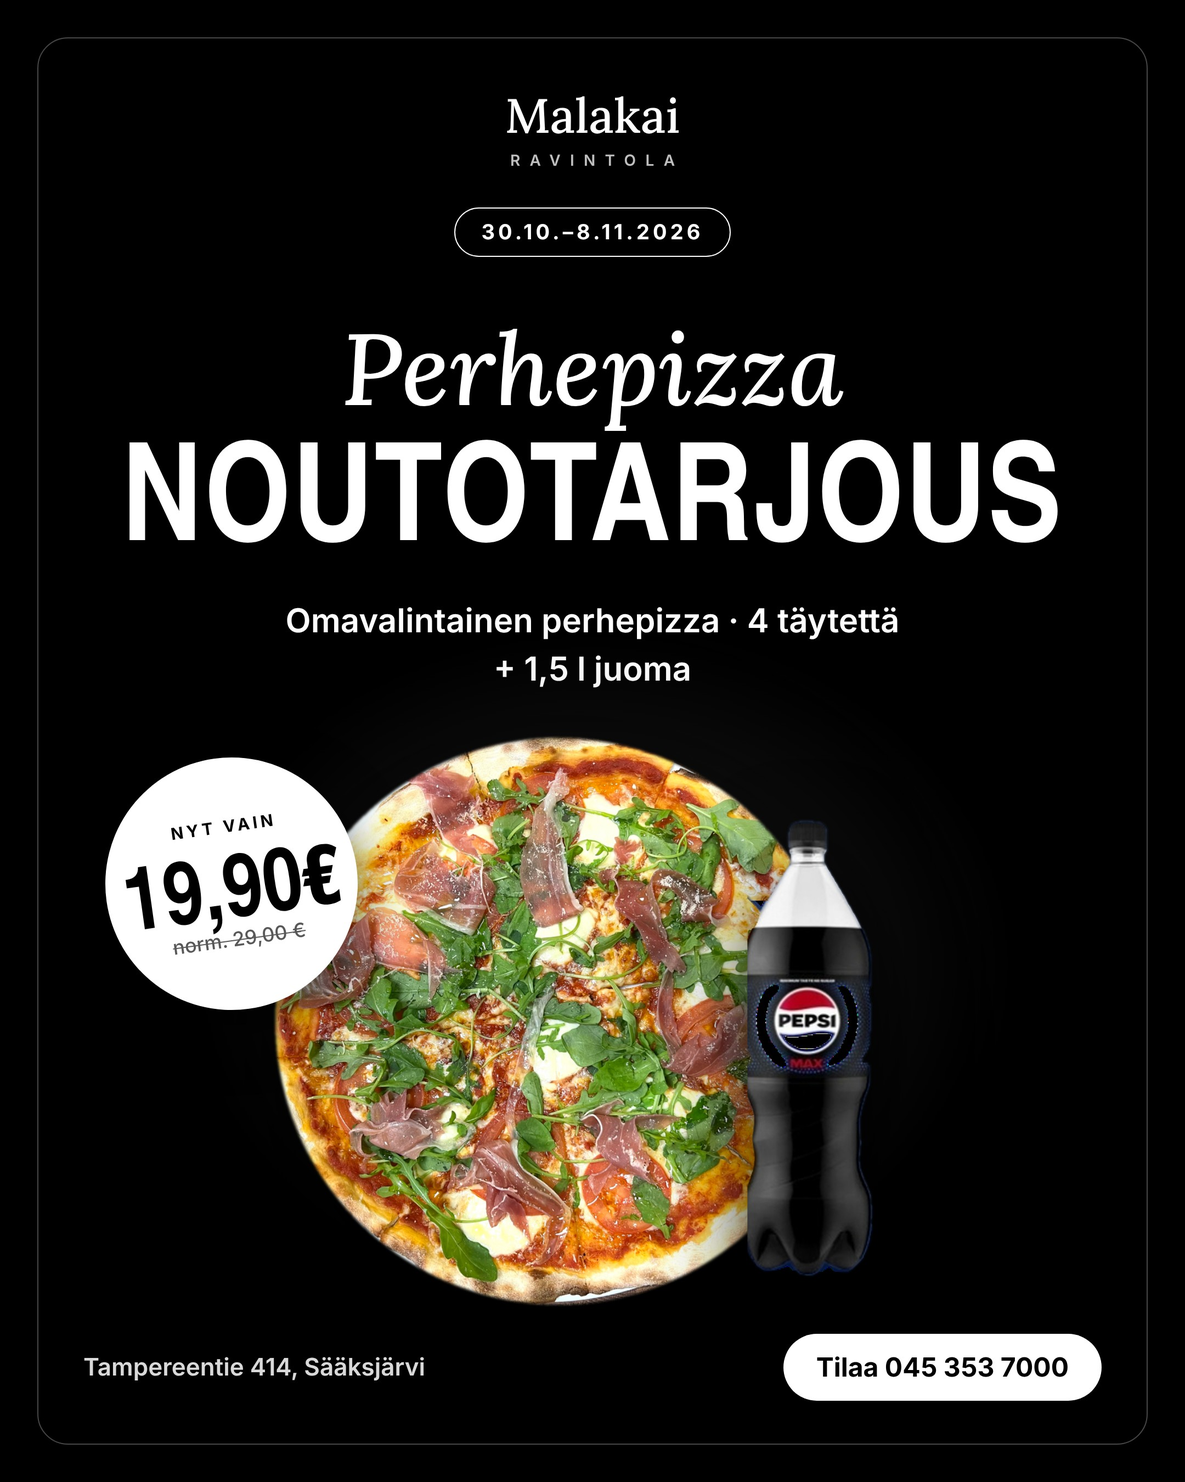
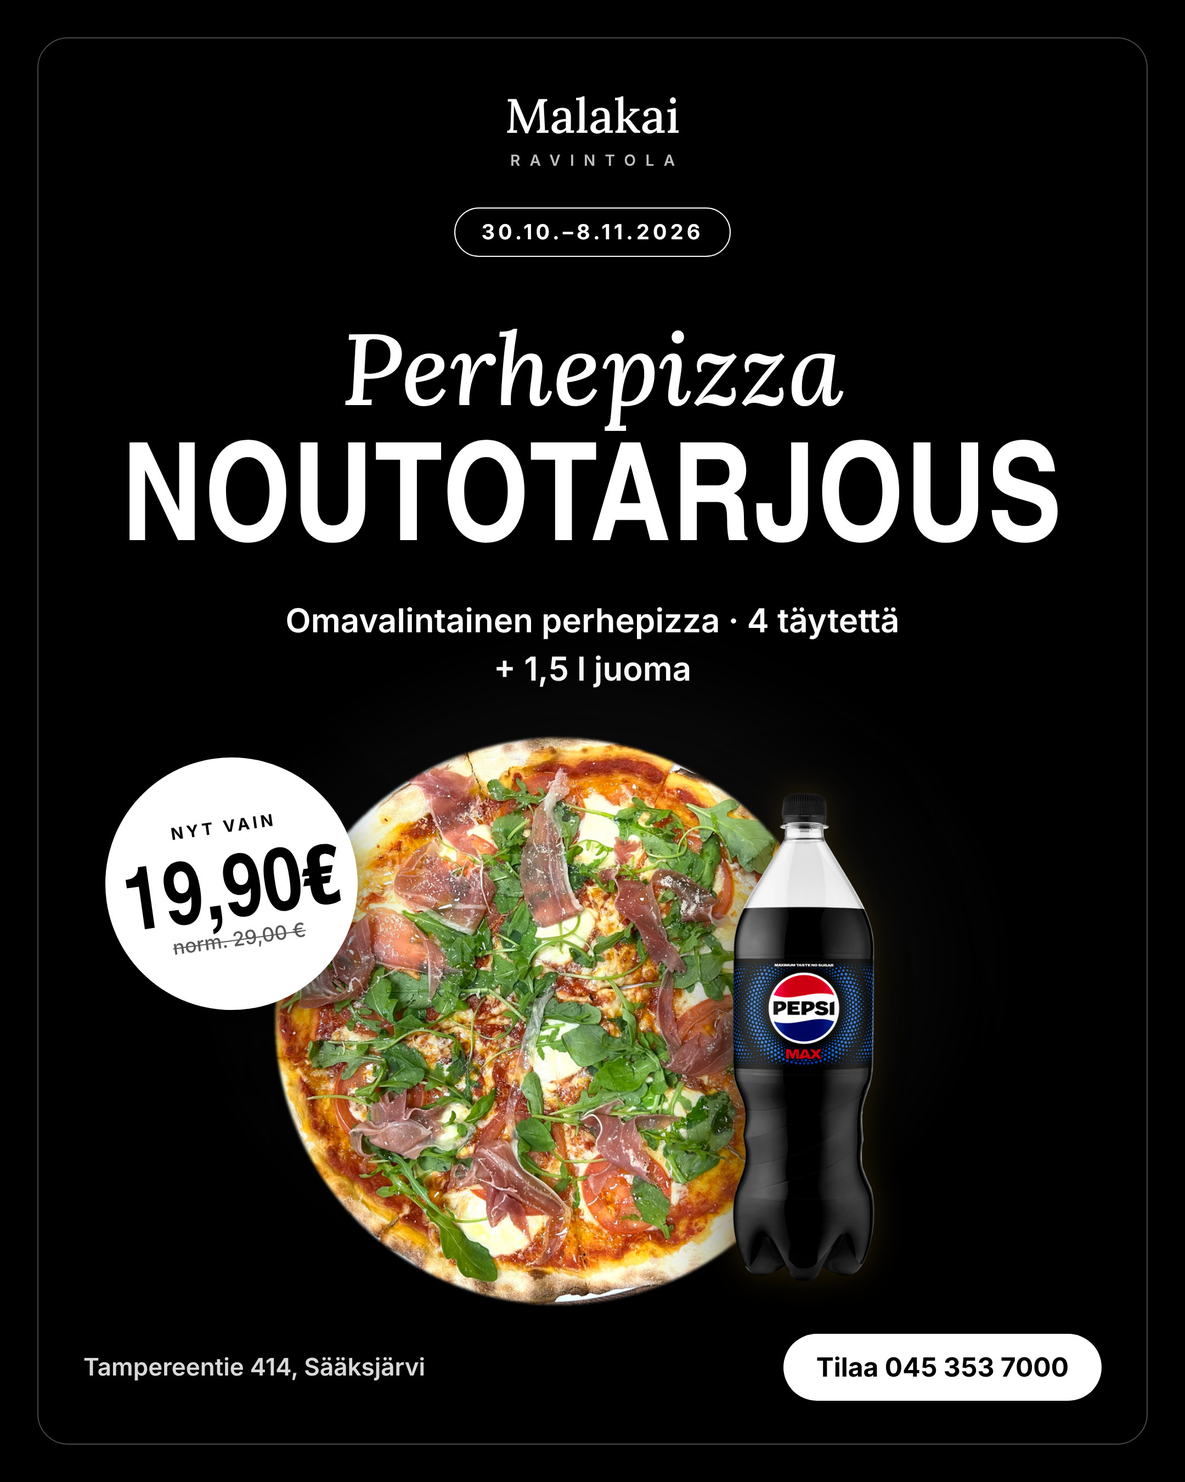
Perhepizza-tarjous: uusi Pepsi Max -kuva
Claude-Session: https://claude.ai/code/session_019QJ8uAZrjsHY5GBSvSU4sp

Changed region(s): [[0.5894, 0.5289, 0.7444, 0.8711], [0.7134, 0.7778, 0.7444, 0.84]]

diff --git a/index.html b/index.html
@@ -1,9 +1,9 @@
 <!DOCTYPE html>
-<html lang="fi"><head><meta charset="utf-8"><meta name="build" content="1793960340"><meta name="viewport" content="width=device-width, initial-scale=1, viewport-fit=cover">
+<html lang="fi"><head><meta charset="utf-8"><meta name="build" content="1793961114"><meta name="viewport" content="width=device-width, initial-scale=1, viewport-fit=cover">
 <title>Malakai Ravintola Lempäälä | Pizzabuffet, kebab, burgerit ja siivet</title><meta name="description" content="Malakai Ravintola, Tampereentie 414 Lempäälä. Pizzabuffet 13,70 € / 14,90 €, päivän pizza 9,90 €, kebabit, burgerit, Sticky Fingers ja Hot Wings. Varaa pöytä: 045 353 7000.">
 <meta property="og:title" content="Malakai Ravintola Lempäälä | Pizzabuffet, kebab, burgerit ja siivet"><meta property="og:description" content="Malakai Ravintola, Tampereentie 414 Lempäälä. Pizzabuffet 13,70 € / 14,90 €, päivän pizza 9,90 €, kebabit, burgerit, Sticky Fingers ja Hot Wings. Varaa pöytä: 045 353 7000."><meta property="og:image" content="media/kuvat/hero-levea.jpg?hq=1"><meta property="og:locale" content="fi_FI">
 <link href="https://fonts.googleapis.com/css2?family=Anton&family=Inter:wght@400;500;700&family=Playfair+Display:wght@500;600&display=swap" rel="stylesheet">
-<link rel="stylesheet" href="styles.css?v=1793960340"><link rel="stylesheet" href="home.css?v=1793960340">
+<link rel="stylesheet" href="styles.css?v=1793961114"><link rel="stylesheet" href="home.css?v=1793961114">
 <script type="application/ld+json">{"@context":"https://schema.org","@type":"Restaurant","name":"Malakai Ravintola","address":{"@type":"PostalAddress","streetAddress":"Tampereentie 414","postalCode":"33880","addressLocality":"Lempäälä","addressCountry":"FI"},"telephone":"+358453537000","email":"malakairavintola@gmail.com","url":"https://malakairavintola.fi","servesCuisine":["Pizza","Kebab","Burgerit"],"openingHours":["Mo-Th 10:30-20:00","Fr 10:30-21:00","Sa 11:00-21:00","Su 12:00-20:00"]}</script>
 </head>
 <body class="home">
@@ -219,5 +219,5 @@
 <div class="fcopy">© 2025 Malakai Ravintola · <a href="https://www.oivahymy.fi/api/raportti/227129" target="_blank" rel="noopener">Oiva-raportti (Oivallinen)</a> · <a href="tietosuoja.html">Tietosuojaseloste</a> · <a href="kayttoehdot.html">Käyttö- ja varausehdot</a></div>
 </div></footer>
 <div class="bar"><a class="btn" href="tel:+358453537000">Soita</a><a class="btn r" href="https://order.site/malakai-ravintola" target="_blank" rel="noopener">Tilaa</a><a class="btn y" href="#varaa">Varaa pöytä</a></div>
-<script src="data.js?v=1793960340"></script><script src="config.js?v=1793960340"></script><script src="site.js?v=1793960340"></script>
+<script src="data.js?v=1793961114"></script><script src="config.js?v=1793961114"></script><script src="site.js?v=1793961114"></script>
 </body></html>

diff --git a/lounas.html b/lounas.html
@@ -1,9 +1,9 @@
 <!DOCTYPE html>
-<html lang="fi"><head><meta charset="utf-8"><meta name="build" content="1793960340"><meta name="viewport" content="width=device-width, initial-scale=1, viewport-fit=cover">
+<html lang="fi"><head><meta charset="utf-8"><meta name="build" content="1793961114"><meta name="viewport" content="width=device-width, initial-scale=1, viewport-fit=cover">
 <title>Lounas Sääksjärvi | Malakai Ravintola Lempäälä</title><meta name="description" content="Pizzabuffet Lempäälässä: arkisin klo 10.30–15 13,70 €, viikonloppuisin klo 13–18 14,90 €. Salaattibuffet 9,90 € / 10,90 €. Lapsille omat hinnat.">
 <meta property="og:title" content="Pizzabuffet Lempäälä | Malakai Ravintola"><meta property="og:description" content="Pizzabuffet Lempäälässä: arkisin klo 10.30–15 13,70 €, viikonloppuisin klo 13–18 14,90 €. Salaattibuffet 9,90 € / 10,90 €. Lapsille omat hinnat."><meta property="og:image" content="media/hero.jpg"><meta property="og:locale" content="fi_FI">
 <link href="https://fonts.googleapis.com/css2?family=Anton&family=Inter:wght@400;500;700&family=Playfair+Display:wght@500;600&display=swap" rel="stylesheet">
-<link rel="stylesheet" href="styles.css?v=1793960340"><link rel="stylesheet" href="home.css?v=1793960340">
+<link rel="stylesheet" href="styles.css?v=1793961114"><link rel="stylesheet" href="home.css?v=1793961114">
 <script type="application/ld+json">{"@context":"https://schema.org","@type":"Restaurant","name":"Malakai Ravintola","address":{"@type":"PostalAddress","streetAddress":"Tampereentie 414","postalCode":"33880","addressLocality":"Lempäälä","addressCountry":"FI"},"telephone":"+358453537000","email":"malakairavintola@gmail.com","url":"https://malakairavintola.fi","servesCuisine":["Pizza","Kebab","Burgerit"],"openingHours":["Mo-Th 10:30-20:00","Fr 10:30-21:00","Sa 11:00-21:00","Su 12:00-20:00"]}</script>
 </head><body class="home">
 <header class="top" id="topbar">
@@ -73,5 +73,5 @@
 <div class="fcopy">© 2025 Malakai Ravintola · <a href="https://www.oivahymy.fi/api/raportti/227129" target="_blank" rel="noopener">Oiva-raportti (Oivallinen)</a> · <a href="tietosuoja.html">Tietosuojaseloste</a> · <a href="kayttoehdot.html">Käyttö- ja varausehdot</a></div>
 </div></footer>
 <div class="bar"><a class="btn" href="tel:+358453537000">Soita</a><a class="btn r" href="https://order.site/malakai-ravintola" target="_blank" rel="noopener">Tilaa</a><a class="btn y" href="index.html#varaa">Varaa pöytä</a></div>
-<script src="data.js?v=1793960340"></script><script src="config.js?v=1793960340"></script><script src="site.js?v=1793960340"></script>
+<script src="data.js?v=1793961114"></script><script src="config.js?v=1793961114"></script><script src="site.js?v=1793961114"></script>
 </body></html>

diff --git a/pikkujoulut.html b/pikkujoulut.html
@@ -1,9 +1,9 @@
 <!DOCTYPE html>
-<html lang="fi"><head><meta charset="utf-8"><meta name="build" content="1793960340"><meta name="viewport" content="width=device-width, initial-scale=1, viewport-fit=cover">
+<html lang="fi"><head><meta charset="utf-8"><meta name="build" content="1793961114"><meta name="viewport" content="width=device-width, initial-scale=1, viewport-fit=cover">
 <title>Pikkujoulut 2026 Lempäälä | Malakai Ravintola</title><meta name="description" content="Pikkujoulut 2026 Malakai Ravintolassa Sääksjärvellä: runsas buffet työporukalle, kavereille ja suvulle. Pyydä tarjous: 045 353 7000.">
 <meta property="og:title" content="Pikkujoulut 2026 | Malakai Ravintola"><meta property="og:description" content="Pikkujoulut 2026 Malakai Ravintolassa Sääksjärvellä: runsas buffet työporukalle, kavereille ja suvulle. Pyydä tarjous: 045 353 7000."><meta property="og:image" content="media/kuvat/buffet-lautanen.jpg?hq=1"><meta property="og:locale" content="fi_FI">
 <link href="https://fonts.googleapis.com/css2?family=Anton&family=Inter:wght@400;500;700&family=Playfair+Display:wght@500;600&display=swap" rel="stylesheet">
-<link rel="stylesheet" href="styles.css?v=1793960340"><link rel="stylesheet" href="home.css?v=1793960340">
+<link rel="stylesheet" href="styles.css?v=1793961114"><link rel="stylesheet" href="home.css?v=1793961114">
 <script type="application/ld+json">{"@context":"https://schema.org","@type":"Restaurant","name":"Malakai Ravintola","address":{"@type":"PostalAddress","streetAddress":"Tampereentie 414","postalCode":"33880","addressLocality":"Lempäälä","addressCountry":"FI"},"telephone":"+358453537000","email":"malakairavintola@gmail.com","url":"https://malakairavintola.fi","servesCuisine":["Pizza","Kebab","Burgerit"],"openingHours":["Mo-Th 10:30-20:00","Fr 10:30-21:00","Sa 11:00-21:00","Su 12:00-20:00"]}</script>
 </head><body class="home">
 <header class="top" id="topbar">
@@ -66,5 +66,5 @@
 <div class="fcopy">© 2025 Malakai Ravintola · <a href="https://www.oivahymy.fi/api/raportti/227129" target="_blank" rel="noopener">Oiva-raportti (Oivallinen)</a> · <a href="tietosuoja.html">Tietosuojaseloste</a> · <a href="kayttoehdot.html">Käyttö- ja varausehdot</a></div>
 </div></footer>
 <div class="bar"><a class="btn" href="tel:+358453537000">Soita</a><a class="btn r" href="https://order.site/malakai-ravintola" target="_blank" rel="noopener">Tilaa</a><a class="btn y" href="index.html#varaa">Varaa pöytä</a></div>
-<script src="data.js?v=1793960340"></script><script src="config.js?v=1793960340"></script><script src="site.js?v=1793960340"></script>
+<script src="data.js?v=1793961114"></script><script src="config.js?v=1793961114"></script><script src="site.js?v=1793961114"></script>
 </body></html>

diff --git a/ruokalista.html b/ruokalista.html
@@ -1,9 +1,9 @@
 <!DOCTYPE html>
-<html lang="fi"><head><meta charset="utf-8"><meta name="build" content="1793960340"><meta name="viewport" content="width=device-width, initial-scale=1, viewport-fit=cover">
+<html lang="fi"><head><meta charset="utf-8"><meta name="build" content="1793961114"><meta name="viewport" content="width=device-width, initial-scale=1, viewport-fit=cover">
 <title>Ruokalista | Malakai Ravintola Lempäälä</title><meta name="description" content="Malakai Ravintolan ruokalista: pizzat, kebabit, kana, Sticky Fingers, Hot Wings, burgerit, lisukkeet, dipit ja juomat hintoineen.">
 <meta property="og:title" content="Ruokalista | Malakai Ravintola Lempäälä"><meta property="og:description" content="Malakai Ravintolan ruokalista: pizzat, kebabit, kana, Sticky Fingers, Hot Wings, burgerit, lisukkeet, dipit ja juomat hintoineen."><meta property="og:image" content="media/hero.jpg"><meta property="og:locale" content="fi_FI">
 <link href="https://fonts.googleapis.com/css2?family=Anton&family=Inter:wght@400;500;700&family=Playfair+Display:wght@500;600&display=swap" rel="stylesheet">
-<link rel="stylesheet" href="styles.css?v=1793960340"><link rel="stylesheet" href="home.css?v=1793960340">
+<link rel="stylesheet" href="styles.css?v=1793961114"><link rel="stylesheet" href="home.css?v=1793961114">
 <script type="application/ld+json">{"@context":"https://schema.org","@type":"Restaurant","name":"Malakai Ravintola","address":{"@type":"PostalAddress","streetAddress":"Tampereentie 414","postalCode":"33880","addressLocality":"Lempäälä","addressCountry":"FI"},"telephone":"+358453537000","email":"malakairavintola@gmail.com","url":"https://malakairavintola.fi","servesCuisine":["Pizza","Kebab","Burgerit"],"openingHours":["Mo-Th 10:30-20:00","Fr 10:30-21:00","Sa 11:00-21:00","Su 12:00-20:00"]}</script>
 </head><body class="home menu-page">
 <header class="top" id="topbar">
@@ -23,5 +23,5 @@
 <div class="fcopy">© 2025 Malakai Ravintola · <a href="https://www.oivahymy.fi/api/raportti/227129" target="_blank" rel="noopener">Oiva-raportti (Oivallinen)</a> · <a href="tietosuoja.html">Tietosuojaseloste</a> · <a href="kayttoehdot.html">Käyttö- ja varausehdot</a></div>
 </div></footer>
 <div class="bar"><a class="btn" href="tel:+358453537000">Soita</a><a class="btn r" href="https://order.site/malakai-ravintola" target="_blank" rel="noopener">Tilaa</a><a class="btn y" href="index.html#varaa">Varaa pöytä</a></div>
-<script src="data.js?v=1793960340"></script><script src="config.js?v=1793960340"></script><script src="site.js?v=1793960340"></script>
+<script src="data.js?v=1793961114"></script><script src="config.js?v=1793961114"></script><script src="site.js?v=1793961114"></script>
 </body></html>

diff --git a/pizza-lempaala.html b/pizza-lempaala.html
@@ -1,9 +1,9 @@
 <!DOCTYPE html>
-<html lang="fi"><head><meta charset="utf-8"><meta name="build" content="1793960340"><meta name="viewport" content="width=device-width, initial-scale=1, viewport-fit=cover">
+<html lang="fi"><head><meta charset="utf-8"><meta name="build" content="1793961114"><meta name="viewport" content="width=device-width, initial-scale=1, viewport-fit=cover">
 <title>Pizza Lempäälä | Malakai Ravintola</title><meta name="description" content="Pizza Lempäälässä: Malakai Ravintolan 22 pizzaa, oma valinta ja päivän pizza 9,90 €. Pizzabuffet joka päivä.">
 <meta property="og:title" content="Pizza Lempäälä | Malakai Ravintola"><meta property="og:description" content="Pizza Lempäälässä: Malakai Ravintolan 22 pizzaa, oma valinta ja päivän pizza 9,90 €. Pizzabuffet joka päivä."><meta property="og:image" content="media/hero.jpg"><meta property="og:locale" content="fi_FI">
 <link href="https://fonts.googleapis.com/css2?family=Anton&family=Inter:wght@400;500;700&family=Playfair+Display:wght@500;600&display=swap" rel="stylesheet">
-<link rel="stylesheet" href="styles.css?v=1793960340"><link rel="stylesheet" href="home.css?v=1793960340">
+<link rel="stylesheet" href="styles.css?v=1793961114"><link rel="stylesheet" href="home.css?v=1793961114">
 <script type="application/ld+json">{"@context":"https://schema.org","@type":"Restaurant","name":"Malakai Ravintola","address":{"@type":"PostalAddress","streetAddress":"Tampereentie 414","postalCode":"33880","addressLocality":"Lempäälä","addressCountry":"FI"},"telephone":"+358453537000","email":"malakairavintola@gmail.com","url":"https://malakairavintola.fi","servesCuisine":["Pizza","Kebab","Burgerit"],"openingHours":["Mo-Th 10:30-20:00","Fr 10:30-21:00","Sa 11:00-21:00","Su 12:00-20:00"]}</script>
 </head><body class="home menu-page">
 <header class="top" id="topbar">
@@ -23,5 +23,5 @@
 <div class="fcopy">© 2025 Malakai Ravintola · <a href="https://www.oivahymy.fi/api/raportti/227129" target="_blank" rel="noopener">Oiva-raportti (Oivallinen)</a> · <a href="tietosuoja.html">Tietosuojaseloste</a> · <a href="kayttoehdot.html">Käyttö- ja varausehdot</a></div>
 </div></footer>
 <div class="bar"><a class="btn" href="tel:+358453537000">Soita</a><a class="btn r" href="https://order.site/malakai-ravintola" target="_blank" rel="noopener">Tilaa</a><a class="btn y" href="index.html#varaa">Varaa pöytä</a></div>
-<script src="data.js?v=1793960340"></script><script src="config.js?v=1793960340"></script><script src="site.js?v=1793960340"></script>
+<script src="data.js?v=1793961114"></script><script src="config.js?v=1793961114"></script><script src="site.js?v=1793961114"></script>
 </body></html>

diff --git a/kebab-lempaala.html b/kebab-lempaala.html
@@ -1,9 +1,9 @@
 <!DOCTYPE html>
-<html lang="fi"><head><meta charset="utf-8"><meta name="build" content="1793960340"><meta name="viewport" content="width=device-width, initial-scale=1, viewport-fit=cover">
+<html lang="fi"><head><meta charset="utf-8"><meta name="build" content="1793961114"><meta name="viewport" content="width=device-width, initial-scale=1, viewport-fit=cover">
 <title>Kebab Lempäälä | Malakai Ravintola</title><meta name="description" content="Kebab Lempäälässä: Malakai Ravintolan kebab- ja kanaannokset ranskalaisilla, riisillä, rullana ja pitassa.">
 <meta property="og:title" content="Kebab Lempäälä | Malakai Ravintola"><meta property="og:description" content="Kebab Lempäälässä: Malakai Ravintolan kebab- ja kanaannokset ranskalaisilla, riisillä, rullana ja pitassa."><meta property="og:image" content="media/hero.jpg"><meta property="og:locale" content="fi_FI">
 <link href="https://fonts.googleapis.com/css2?family=Anton&family=Inter:wght@400;500;700&family=Playfair+Display:wght@500;600&display=swap" rel="stylesheet">
-<link rel="stylesheet" href="styles.css?v=1793960340"><link rel="stylesheet" href="home.css?v=1793960340">
+<link rel="stylesheet" href="styles.css?v=1793961114"><link rel="stylesheet" href="home.css?v=1793961114">
 <script type="application/ld+json">{"@context":"https://schema.org","@type":"Restaurant","name":"Malakai Ravintola","address":{"@type":"PostalAddress","streetAddress":"Tampereentie 414","postalCode":"33880","addressLocality":"Lempäälä","addressCountry":"FI"},"telephone":"+358453537000","email":"malakairavintola@gmail.com","url":"https://malakairavintola.fi","servesCuisine":["Pizza","Kebab","Burgerit"],"openingHours":["Mo-Th 10:30-20:00","Fr 10:30-21:00","Sa 11:00-21:00","Su 12:00-20:00"]}</script>
 </head><body class="home menu-page">
 <header class="top" id="topbar">
@@ -23,5 +23,5 @@
 <div class="fcopy">© 2025 Malakai Ravintola · <a href="https://www.oivahymy.fi/api/raportti/227129" target="_blank" rel="noopener">Oiva-raportti (Oivallinen)</a> · <a href="tietosuoja.html">Tietosuojaseloste</a> · <a href="kayttoehdot.html">Käyttö- ja varausehdot</a></div>
 </div></footer>
 <div class="bar"><a class="btn" href="tel:+358453537000">Soita</a><a class="btn r" href="https://order.site/malakai-ravintola" target="_blank" rel="noopener">Tilaa</a><a class="btn y" href="index.html#varaa">Varaa pöytä</a></div>
-<script src="data.js?v=1793960340"></script><script src="config.js?v=1793960340"></script><script src="site.js?v=1793960340"></script>
+<script src="data.js?v=1793961114"></script><script src="config.js?v=1793961114"></script><script src="site.js?v=1793961114"></script>
 </body></html>

diff --git a/kayttoehdot.html b/kayttoehdot.html
@@ -1,9 +1,9 @@
 <!DOCTYPE html>
-<html lang="fi"><head><meta charset="utf-8"><meta name="build" content="1793960340"><meta name="viewport" content="width=device-width, initial-scale=1, viewport-fit=cover">
+<html lang="fi"><head><meta charset="utf-8"><meta name="build" content="1793961114"><meta name="viewport" content="width=device-width, initial-scale=1, viewport-fit=cover">
 <title>Käyttö- ja varausehdot | Malakai Ravintola</title><meta name="description" content="Malakai Ravintolan käyttö- ja varausehdot: pöytävaraukset ja sivuston käyttö."><meta name="robots" content="noindex">
 <meta property="og:title" content="Käyttö- ja varausehdot | Malakai Ravintola"><meta property="og:description" content="Pöytävaraukset: Malakai Ravintolan ehdot."><meta property="og:image" content="media/kuvat/buffet-lautanen.jpg?hq=1"><meta property="og:locale" content="fi_FI">
 <link href="https://fonts.googleapis.com/css2?family=Anton&family=Inter:wght@400;500;700&family=Playfair+Display:wght@500;600&display=swap" rel="stylesheet">
-<link rel="stylesheet" href="styles.css?v=1793960340"><link rel="stylesheet" href="home.css?v=1793960340">
+<link rel="stylesheet" href="styles.css?v=1793961114"><link rel="stylesheet" href="home.css?v=1793961114">
 <script type="application/ld+json">{"@context":"https://schema.org","@type":"Restaurant","name":"Malakai Ravintola","address":{"@type":"PostalAddress","streetAddress":"Tampereentie 414","postalCode":"33880","addressLocality":"Lempäälä","addressCountry":"FI"},"telephone":"+358453537000","email":"malakairavintola@gmail.com","url":"https://malakairavintola.fi","servesCuisine":["Pizza","Kebab","Burgerit"],"openingHours":["Mo-Th 10:30-20:00","Fr 10:30-21:00","Sa 11:00-21:00","Su 12:00-20:00"]}</script>
 </head><body class="home">
 <header class="top" id="topbar">
@@ -59,5 +59,5 @@
 <div class="fcopy">© 2025 Malakai Ravintola · <a href="https://www.oivahymy.fi/api/raportti/227129" target="_blank" rel="noopener">Oiva-raportti (Oivallinen)</a> · <a href="tietosuoja.html">Tietosuojaseloste</a> · <a href="kayttoehdot.html">Käyttö- ja varausehdot</a></div>
 </div></footer>
 <div class="bar"><a class="btn" href="tel:+358453537000">Soita</a><a class="btn r" href="https://order.site/malakai-ravintola" target="_blank" rel="noopener">Tilaa</a><a class="btn y" href="index.html#varaa">Varaa pöytä</a></div>
-<script src="data.js?v=1793960340"></script><script src="config.js?v=1793960340"></script><script src="site.js?v=1793960340"></script>
+<script src="data.js?v=1793961114"></script><script src="config.js?v=1793961114"></script><script src="site.js?v=1793961114"></script>
 </body></html>

diff --git a/tietosuoja.html b/tietosuoja.html
@@ -1,9 +1,9 @@
 <!DOCTYPE html>
-<html lang="fi"><head><meta charset="utf-8"><meta name="build" content="1793960340"><meta name="viewport" content="width=device-width, initial-scale=1, viewport-fit=cover">
+<html lang="fi"><head><meta charset="utf-8"><meta name="build" content="1793961114"><meta name="viewport" content="width=device-width, initial-scale=1, viewport-fit=cover">
 <title>Tietosuojaseloste | Malakai Ravintola</title><meta name="description" content="Malakai Ravintolan tietosuojaseloste: pöytävarausten ja uutiskirjeen henkilötietojen käsittely."><meta name="robots" content="noindex">
 <meta property="og:title" content="Tietosuojaseloste | Malakai Ravintola"><meta property="og:image" content="media/kuvat/buffet-lautanen.jpg?hq=1"><meta property="og:locale" content="fi_FI">
 <link href="https://fonts.googleapis.com/css2?family=Anton&family=Inter:wght@400;500;700&family=Playfair+Display:wght@500;600&display=swap" rel="stylesheet">
-<link rel="stylesheet" href="styles.css?v=1793960340"><link rel="stylesheet" href="home.css?v=1793960340">
+<link rel="stylesheet" href="styles.css?v=1793961114"><link rel="stylesheet" href="home.css?v=1793961114">
 <script type="application/ld+json">{"@context":"https://schema.org","@type":"Restaurant","name":"Malakai Ravintola","address":{"@type":"PostalAddress","streetAddress":"Tampereentie 414","postalCode":"33880","addressLocality":"Lempäälä","addressCountry":"FI"},"telephone":"+358453537000","email":"malakairavintola@gmail.com","url":"https://malakairavintola.fi","servesCuisine":["Pizza","Kebab","Burgerit"],"openingHours":["Mo-Th 10:30-20:00","Fr 10:30-21:00","Sa 11:00-21:00","Su 12:00-20:00"]}</script>
 </head><body class="home">
 <header class="top" id="topbar">
@@ -47,5 +47,5 @@
 <div class="fcopy">© 2025 Malakai Ravintola · <a href="https://www.oivahymy.fi/api/raportti/227129" target="_blank" rel="noopener">Oiva-raportti (Oivallinen)</a> · <a href="tietosuoja.html">Tietosuojaseloste</a> · <a href="kayttoehdot.html">Käyttö- ja varausehdot</a></div>
 </div></footer>
 <div class="bar"><a class="btn" href="tel:+358453537000">Soita</a><a class="btn r" href="https://order.site/malakai-ravintola" target="_blank" rel="noopener">Tilaa</a><a class="btn y" href="index.html#varaa">Varaa pöytä</a></div>
-<script src="data.js?v=1793960340"></script><script src="config.js?v=1793960340"></script><script src="site.js?v=1793960340"></script>
+<script src="data.js?v=1793961114"></script><script src="config.js?v=1793961114"></script><script src="site.js?v=1793961114"></script>
 </body></html>

diff --git a/admin.html b/admin.html
@@ -107,8 +107,8 @@ a{color:var(--y)}
 <main class="w" id="main"></main>
 <div class="save" id="saveBar"><div class="w"><span id="saveTxt">Ei tallentamattomia muutoksia</span><button class="o" id="undo" disabled>Peru muutokset</button><button id="saveBtn" disabled>Tallenna ja julkaise</button></div></div>
 <div id="toast" hidden></div>
-<script src="data.js?v=1793960340"></script>
-<script src="config.js?v=1793960340"></script>
+<script src="data.js?v=1793961114"></script>
+<script src="config.js?v=1793961114"></script>
 <script>
 (function(){
 const REPO="malakai-ravintola/malakai-ravintola.github.io",BR="main",FILE="data.js";

diff --git a/data.js b/data.js
@@ -560,7 +560,7 @@ window.SITE=/*BEGIN*/{
    "text": "Omavalintainen perhepizza, 4 täytettä + 1,5 l juoma. Vain noutona.",
    "price": "19,90 €",
    "was": "29,00 €",
-   "image": "media/kuvat/tarjous-perhepizza.jpg?hq=1",
+   "image": "media/kuvat/tarjous-perhepizza.jpg?hq=2",
    "from": "2026-10-30",
    "until": "2026-11-08",
    "cta": "Tilaa 045 353 7000",
